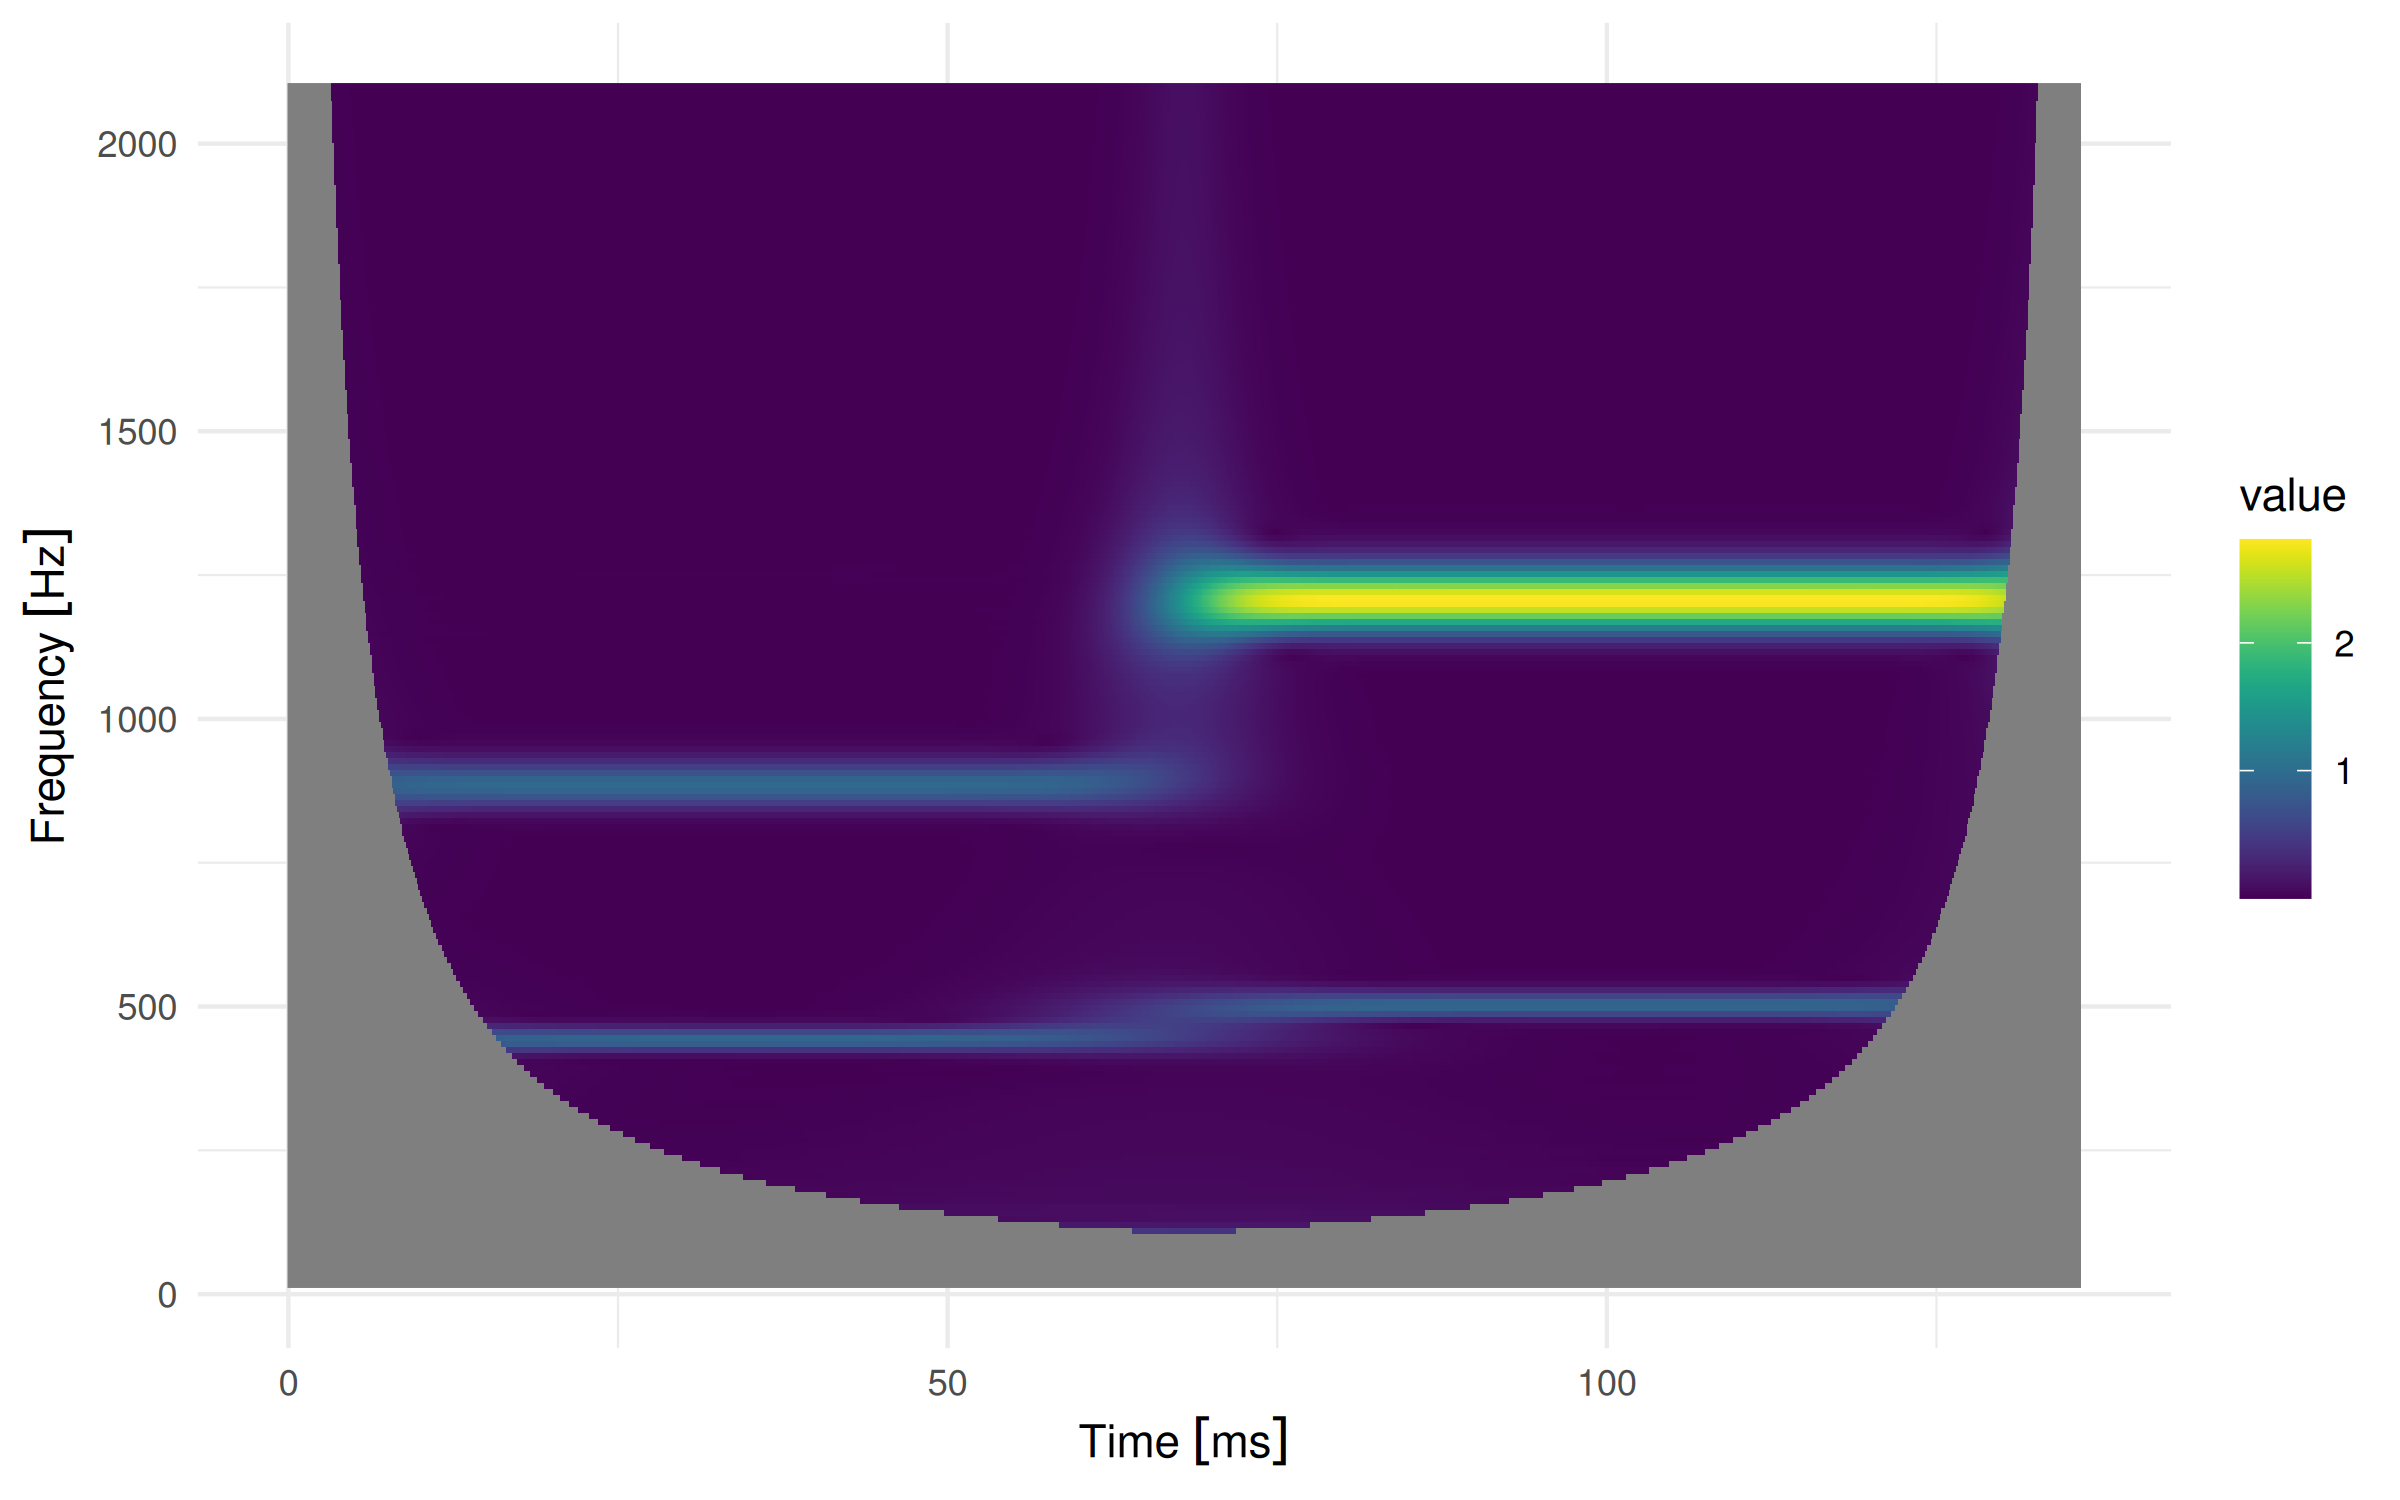
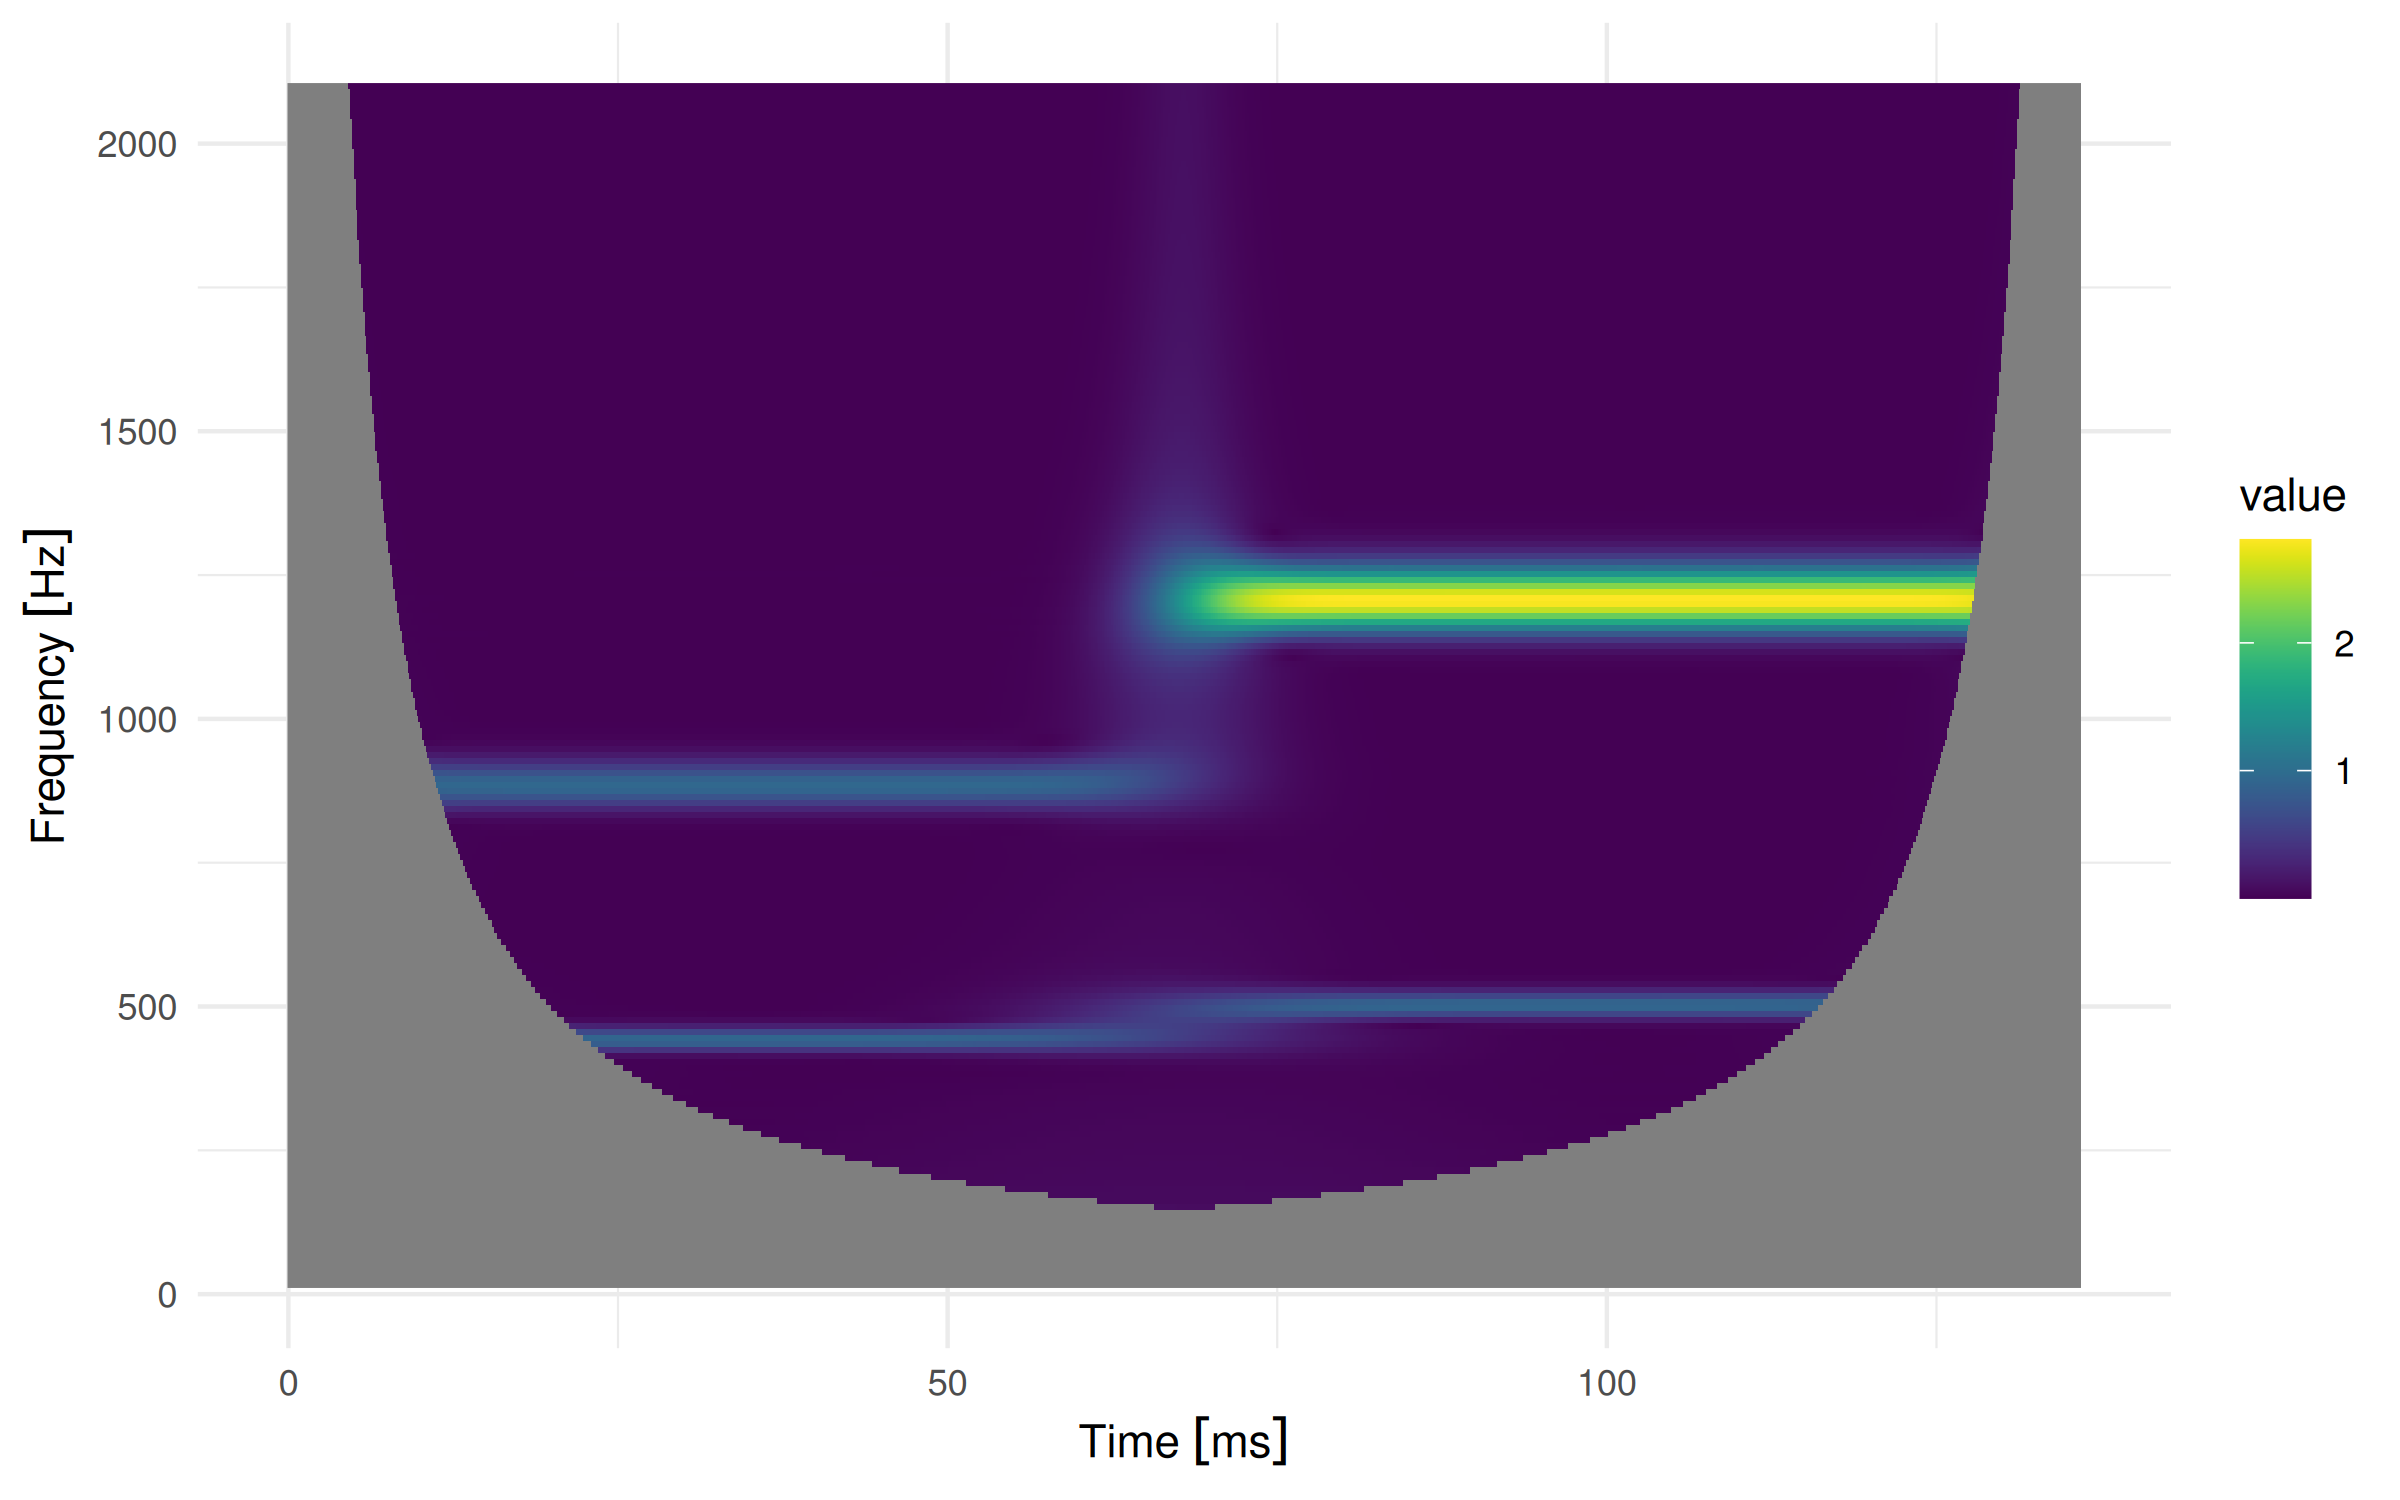
rerender README

Changed region(s): [[0.125, 0.0613, 0.875, 0.828]]

diff --git a/README.md b/README.md
@@ -117,7 +117,7 @@ output
 #> <> Sigma: 5
 #> Time/frequency matrix summary
 #>    Min. 1st Qu.  Median    Mean 3rd Qu.    Max.    NA's 
-#>    0.00    0.00    0.00    0.13    0.04    2.81  232338
+#>    0.00    0.00    0.00    0.13    0.03    2.81  302028
 ```
 
 The result can be converted into a data frame if need be:
